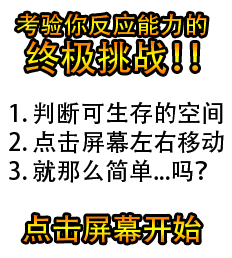
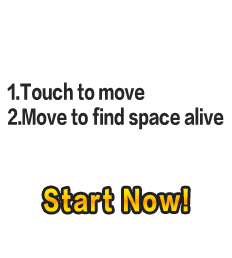
mishi: adjust images.

diff --git a/mishi/spaceman.min.js b/mishi/spaceman.min.js
@@ -608,8 +608,10 @@ function main() {
 				}
 
 				"en" == P ? (f.draw("startE", 0, f.isPressed ? 1 : 0, f.w, f.h, f.x, f.y, f.w, f.h)/*, l.draw("moreE", 0, l.isPressed ? 1 : 0, l.w, l.h, l.x, l.y, l.w, l.h)*/) : (f.draw("start", 0, f.isPressed ? 1 : 0, f.w, f.h, f.x, f.y, f.w, f.h)/*, l.draw("more", 0, l.isPressed ? 1 : 0, l.w, l.h, l.x, l.y, l.w, l.h)*/)
-			} else if (D == O) j(),
-			"en" == p ? (t.canvas.drawImage("introE", (t.canvas.screen.getWidth() - t.getImage("introE").width) / 2, 60)): t.canvas.drawImage("intro", (t.canvas.screen.getWidth() - t.getImage("intro").width) / 2, 60);
+			} else if (D == O) {
+				j(),
+				"en" == P ? (t.canvas.drawImage("introE", (t.canvas.screen.getWidth() - t.getImage("introE").width) / 2, 60)): t.canvas.drawImage("intro", (t.canvas.screen.getWidth() - t.getImage("intro").width) / 2, 60);
+			}
 			else if (D == _) {
 				j();
 				t.canvas.drawImage("jianren", parseInt(C) * v.jianren.width, 2 * v.jianren.height, v.jianren.width, v.jianren.height, k, 30, 2 * v.jianren.width, 2 * v.jianren.height);

diff --git a/mishi/index.html b/mishi/index.html
@@ -148,7 +148,6 @@ function updateShareScore(bestScore) {
 }
 </style>
 <script>
-document.title = GameLang == "en" ? "Escape" : "密室逃脱";
 document.addEventListener('WeixinJSBridgeReady', function onBridgeReady() {
 	// WeixinJSBridge.call('showOptionMenu');
 });
